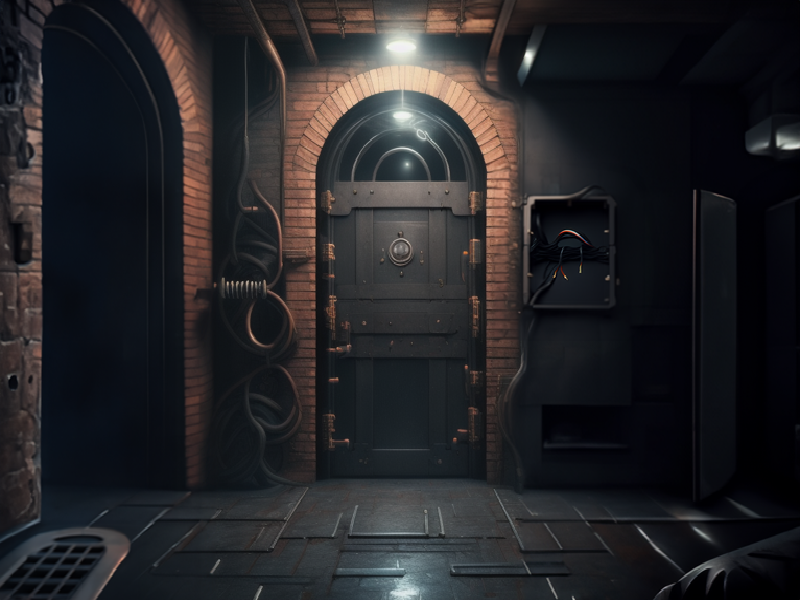
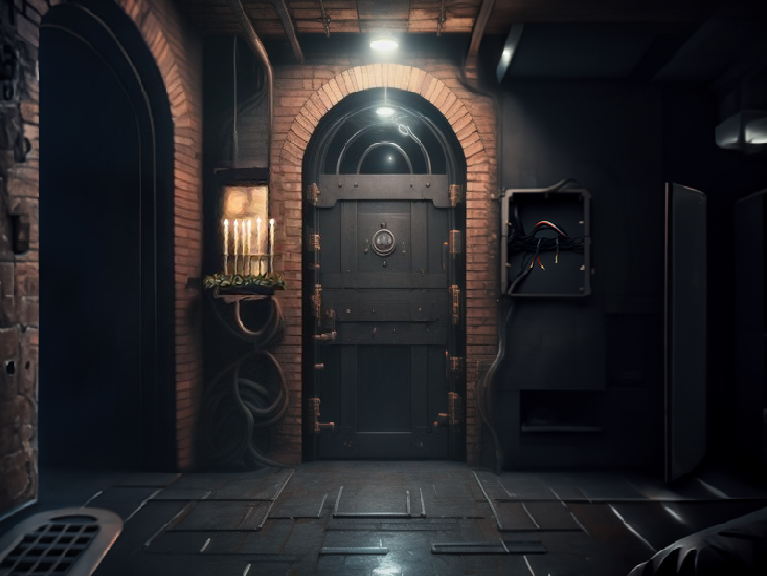
feat: added randomised painting feature for the game

diff --git a/src/main/java/nz/ac/auckland/se206/controllers/PuzzleRoomController.java b/src/main/java/nz/ac/auckland/se206/controllers/PuzzleRoomController.java
@@ -1,6 +1,8 @@
 package nz.ac.auckland.se206.controllers;
 
 import java.io.IOException;
+import java.util.ArrayList;
+import java.util.List;
 import javafx.event.ActionEvent;
 import javafx.fxml.FXML;
 import javafx.scene.Node;
@@ -12,15 +14,21 @@ import javafx.scene.input.MouseEvent;
 import nz.ac.auckland.se206.GameState;
 import nz.ac.auckland.se206.Items.Candle;
 import nz.ac.auckland.se206.MouseClick;
+import nz.ac.auckland.se206.SceneManager.Puzzle;
 import nz.ac.auckland.se206.SceneManager.Rooms;
 
 public class PuzzleRoomController {
   @FXML ImageView background;
   @FXML ImageView candle1, candle2, candle3, candle4;
-
+  private List<ImageView> candles;
   boolean isOpenWall = false;
 
   public void initialize() {
+    candles = new ArrayList<ImageView>();
+    candles.add(candle1);
+    candles.add(candle2);
+    candles.add(candle3);
+    candles.add(candle4);
     candle1.setUserData("candle");
     candle2.setUserData("candle");
     candle3.setUserData("candle");
@@ -136,5 +144,38 @@ public class PuzzleRoomController {
   @FXML
   private void onDragDropped(DragEvent event) {
     GameState.inventory.onDragDropped(event, GameState.currentRoomItems);
+    System.out.println(checkCandleGame());
+    System.out.println(GameState.candleOrder);
+    if (checkCandleGame()) {
+      GameState.puzzleSolved.put(Puzzle.CANDLEPAINTING, true);
+      System.out.println("Complete");
+    } else {
+      GameState.puzzleSolved.put(Puzzle.CANDLEPAINTING, false);
+    }
+  }
+
+  @FXML
+  private void onPipe(MouseEvent event) {
+    new MouseClick().play();
+    GameState.currentPuzzle.set(Puzzle.PIPEPUZZLE);
+  }
+
+  @FXML
+  private void onPadlock(ActionEvent event) {
+    new MouseClick().play();
+    GameState.currentPuzzle.set(Puzzle.PADLOCK);
+  }
+
+  private boolean checkCandleGame() {
+
+    for (int i = 0; i < GameState.candleOrder.size(); i++) {
+      Candle candle = (Candle) GameState.currentRoomItems.get(candles.get(i));
+
+      if (GameState.candleOrder.get(i) != candle.isLit()) {
+        return false;
+      }
+    }
+
+    return true;
   }
 }

diff --git a/src/main/java/nz/ac/auckland/se206/controllers/minigames/CandlePaintingController.java b/src/main/java/nz/ac/auckland/se206/controllers/minigames/CandlePaintingController.java
@@ -1,0 +1,41 @@
+package nz.ac.auckland.se206.controllers.minigames;
+
+import java.util.ArrayList;
+import java.util.List;
+import java.util.Random;
+import javafx.fxml.FXML;
+import javafx.scene.image.Image;
+import javafx.scene.image.ImageView;
+import nz.ac.auckland.se206.GameState;
+import nz.ac.auckland.se206.SceneManager.Puzzle;
+
+public class CandlePaintingController {
+  @FXML ImageView candle0, candle1, candle2, candle3;
+
+  public void initialize() {
+    List<ImageView> candles = new ArrayList<ImageView>();
+    candles.add(candle0);
+    candles.add(candle1);
+    candles.add(candle2);
+    candles.add(candle3);
+
+    for (int i = 0; i < 4; i++) {
+      Random random = new Random();
+
+      boolean randomBoolean = random.nextBoolean();
+      GameState.candleOrder.add(randomBoolean);
+      ImageView candle = candles.get(i);
+      if (randomBoolean) {
+        candle.setImage(new Image("/images/puzzleroom/litCandle.png"));
+      } else {
+        candle.setImage(new Image("/images/puzzleroom/unlitCandle.png"));
+      }
+    }
+  }
+
+  @FXML
+  private void exitPuzzle() {
+    System.out.println("Exit");
+    GameState.currentPuzzle.setValue(Puzzle.NONE);
+  }
+}

diff --git a/src/main/java/nz/ac/auckland/se206/SceneManager.java b/src/main/java/nz/ac/auckland/se206/SceneManager.java
@@ -27,6 +27,7 @@ public class SceneManager {
     PIPEPUZZLE,
     WIREPUZZLE,
     PADLOCK,
+    CANDLEPAINTING,
   }
 
   private static HashMap<AppUi, Parent> map = new HashMap<AppUi, Parent>();
@@ -89,11 +90,13 @@ public class SceneManager {
     puzzleMap.put(Puzzle.WIREPUZZLE, (Pane) App.loadFxml("wirelinking"));
     puzzleMap.put(Puzzle.PIPEPUZZLE, (Pane) App.loadFxml("pipeconnecting"));
     puzzleMap.put(Puzzle.PADLOCK, (Pane) App.loadFxml("padlock"));
+    puzzleMap.put(Puzzle.CANDLEPAINTING, (Pane) App.loadFxml("candlepainting"));
 
     GameState.puzzleSolved = new HashMap<Puzzle, Boolean>();
     GameState.puzzleSolved.put(Puzzle.WIREPUZZLE, false);
     GameState.puzzleSolved.put(Puzzle.PIPEPUZZLE, false);
     GameState.puzzleSolved.put(Puzzle.PADLOCK, false);
+    GameState.puzzleSolved.put(Puzzle.CANDLEPAINTING, false);
   }
 
   public static Pane getPuzzlePane(Puzzle puzzle) {

diff --git a/src/main/java/nz/ac/auckland/se206/GameState.java b/src/main/java/nz/ac/auckland/se206/GameState.java
@@ -1,6 +1,8 @@
 package nz.ac.auckland.se206;
 
+import java.util.ArrayList;
 import java.util.HashMap;
+import java.util.List;
 import java.util.Map;
 import javafx.beans.property.SimpleObjectProperty;
 import javafx.beans.property.SimpleStringProperty;
@@ -20,6 +22,8 @@ public class GameState {
 
   /** Indicates whether the key has been found. */
   public static boolean isKeyFound = false;
+
+  public static List<Boolean> candleOrder = new ArrayList<Boolean>();
 
   public static StringProperty hints = new SimpleStringProperty("\u221E");
   public static int time = 2;

diff --git a/src/main/java/nz/ac/auckland/se206/Items/Lock.java b/src/main/java/nz/ac/auckland/se206/Items/Lock.java
@@ -2,7 +2,7 @@ package nz.ac.auckland.se206.Items;
 
 import javafx.scene.image.Image;
 import nz.ac.auckland.se206.GameState;
-import nz.ac.auckland.se206.SceneManager.Rooms;
+import nz.ac.auckland.se206.SceneManager.Puzzle;
 
 public class Lock extends Object {
   private boolean isLocked = true;
@@ -25,6 +25,6 @@ public class Lock extends Object {
   public void unlockLock() {
     isLocked = false;
     this.message = "you have unlocked lock " + id;
-    GameState.currentRoom.set(Rooms.PUZZLEROOM);
+    GameState.currentPuzzle.set(Puzzle.PADLOCK);
   }
 }

diff --git a/src/main/java/nz/ac/auckland/se206/controllers/minigames/WirelinkingController.java b/src/main/java/nz/ac/auckland/se206/controllers/minigames/WirelinkingController.java
@@ -269,6 +269,7 @@ public class WirelinkingController {
       if (!path.isComplete()) return;
     }
     GameState.puzzleSolved.put(Puzzle.WIREPUZZLE, true);
+    System.out.println("Completed");
   }
 
   /**
@@ -279,5 +280,6 @@ public class WirelinkingController {
   @FXML
   private void exitPuzzle(MouseEvent event) {
     GameState.currentPuzzle.set(Puzzle.NONE);
+    System.out.println("Exit");
   }
 }

diff --git a/src/main/java/nz/ac/auckland/se206/controllers/MainRoomController.java b/src/main/java/nz/ac/auckland/se206/controllers/MainRoomController.java
@@ -127,6 +127,8 @@ public class MainRoomController {
 
     } else if (id.equals("wireBox")) {
       GameState.currentPuzzle.set(Puzzle.WIREPUZZLE);
+    } else if (id.equals("candlePainting")) {
+      GameState.currentPuzzle.set(Puzzle.CANDLEPAINTING);
     }
   }
 

diff --git a/src/main/java/nz/ac/auckland/se206/controllers/minigames/PadlockController.java b/src/main/java/nz/ac/auckland/se206/controllers/minigames/PadlockController.java
@@ -99,6 +99,7 @@ public class PadlockController {
       letterOptions.add(individualLetterOptions);
       hBox.getChildren().add(newLetterField);
     }
+    System.out.println(answer);
   }
 
   @FXML

diff --git a/src/main/java/nz/ac/auckland/se206/Items/Candle.java b/src/main/java/nz/ac/auckland/se206/Items/Candle.java
@@ -26,4 +26,8 @@ public class Candle extends Object {
       this.image = new Image("/images/puzzleroom/litCandle.png");
     }
   }
+
+  public boolean isLit() {
+    return isLit;
+  }
 }
